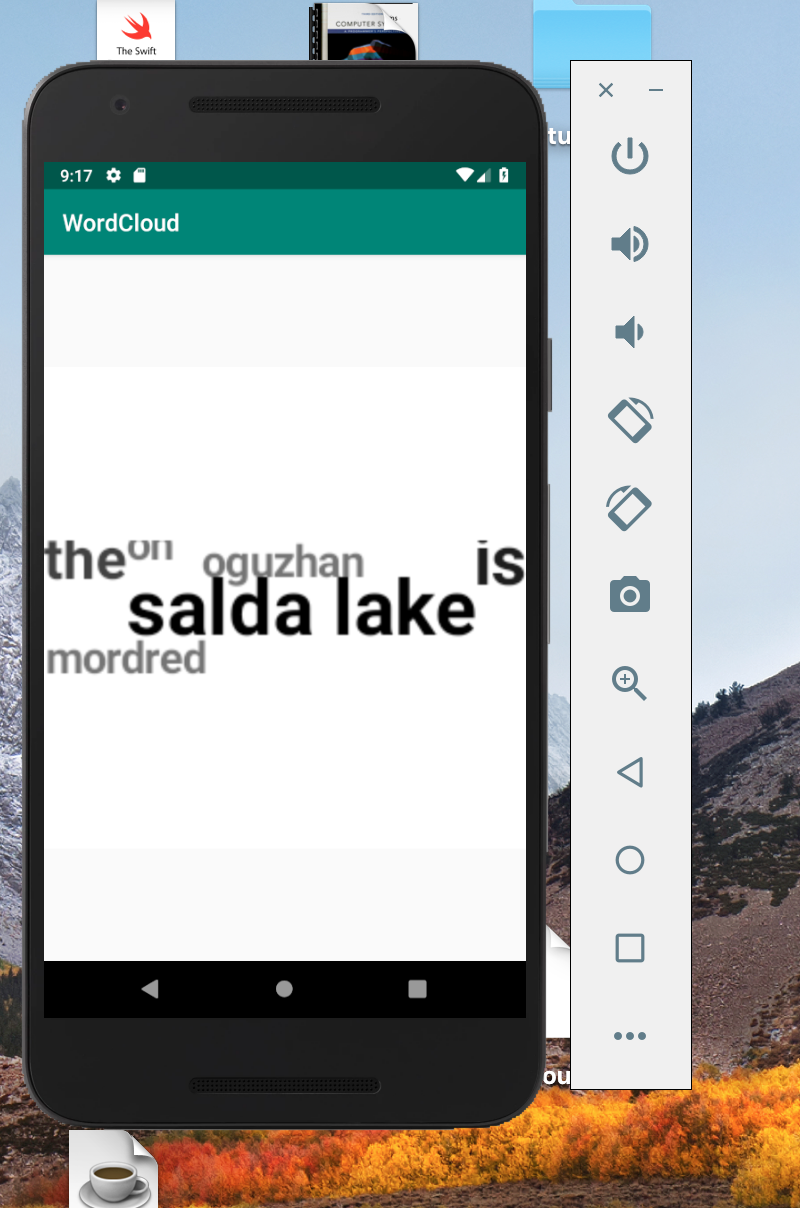
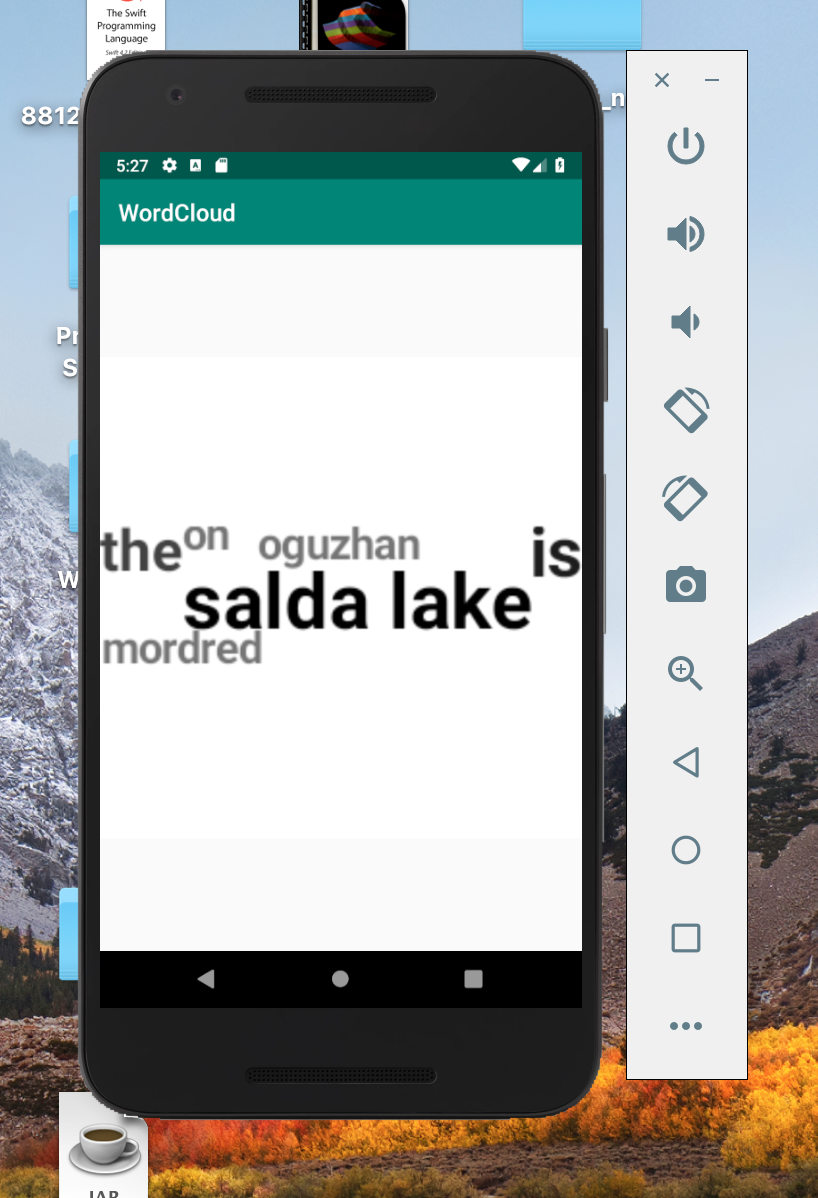
Stable 1.7 released (Hot-fix) * Fixed calculation of dimenHeight (which will be bounded)

diff --git a/Wordcloud/src/main/java/com/mordred/wordcloud/WordCloud.java b/Wordcloud/src/main/java/com/mordred/wordcloud/WordCloud.java
@@ -103,9 +103,9 @@ public class WordCloud {
                 }
             }
             int cHeight = 0;
-            for (Word w3: wordList) {
-                if (w3.getWordRect().height() > cHeight) {
-                    cHeight = w3.getWordRect().height();
+            for (Word w3: wordList) { ;
+                if (w3.getWordRect().bottom > cHeight) {
+                    cHeight = w3.getWordRect().bottom;
                 }
             }
             calculatedHeight = cHeight;

diff --git a/README.md b/README.md
@@ -12,7 +12,7 @@ Maven:
 <dependency>
     <groupId>com.mordred.wordcloud</groupId>
     <artifactId>Wordcloud</artifactId>
-    <version>1.6</version>
+    <version>1.7</version>
 </dependency>
 ```
 
@@ -20,7 +20,7 @@ Gradle:
 
 ```
 dependencies {
-    compile 'com.mordred.wordcloud:Wordcloud:1.6'
+    compile 'com.mordred.wordcloud:Wordcloud:1.7'
 }
 ```
 
